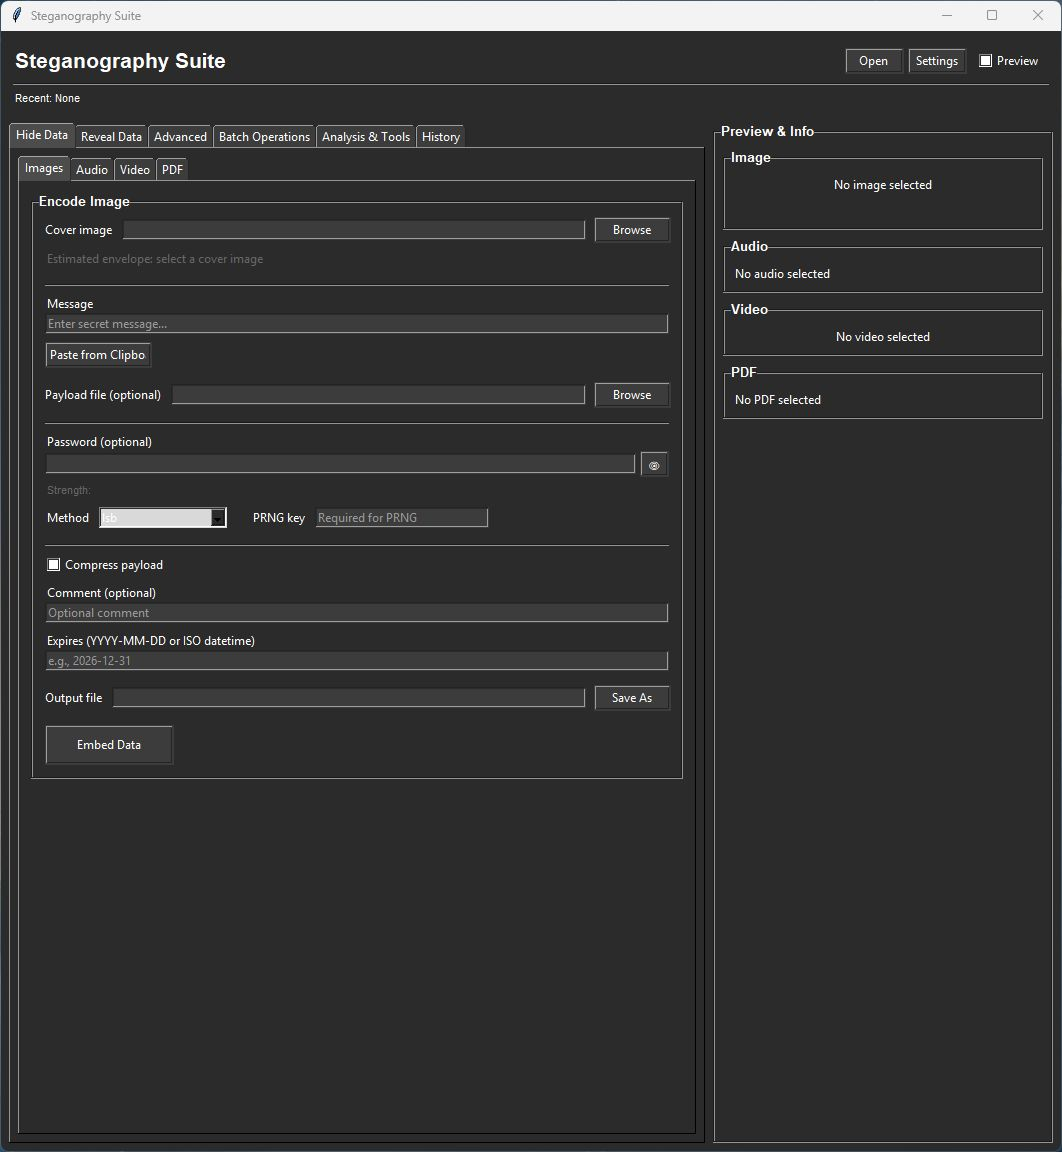
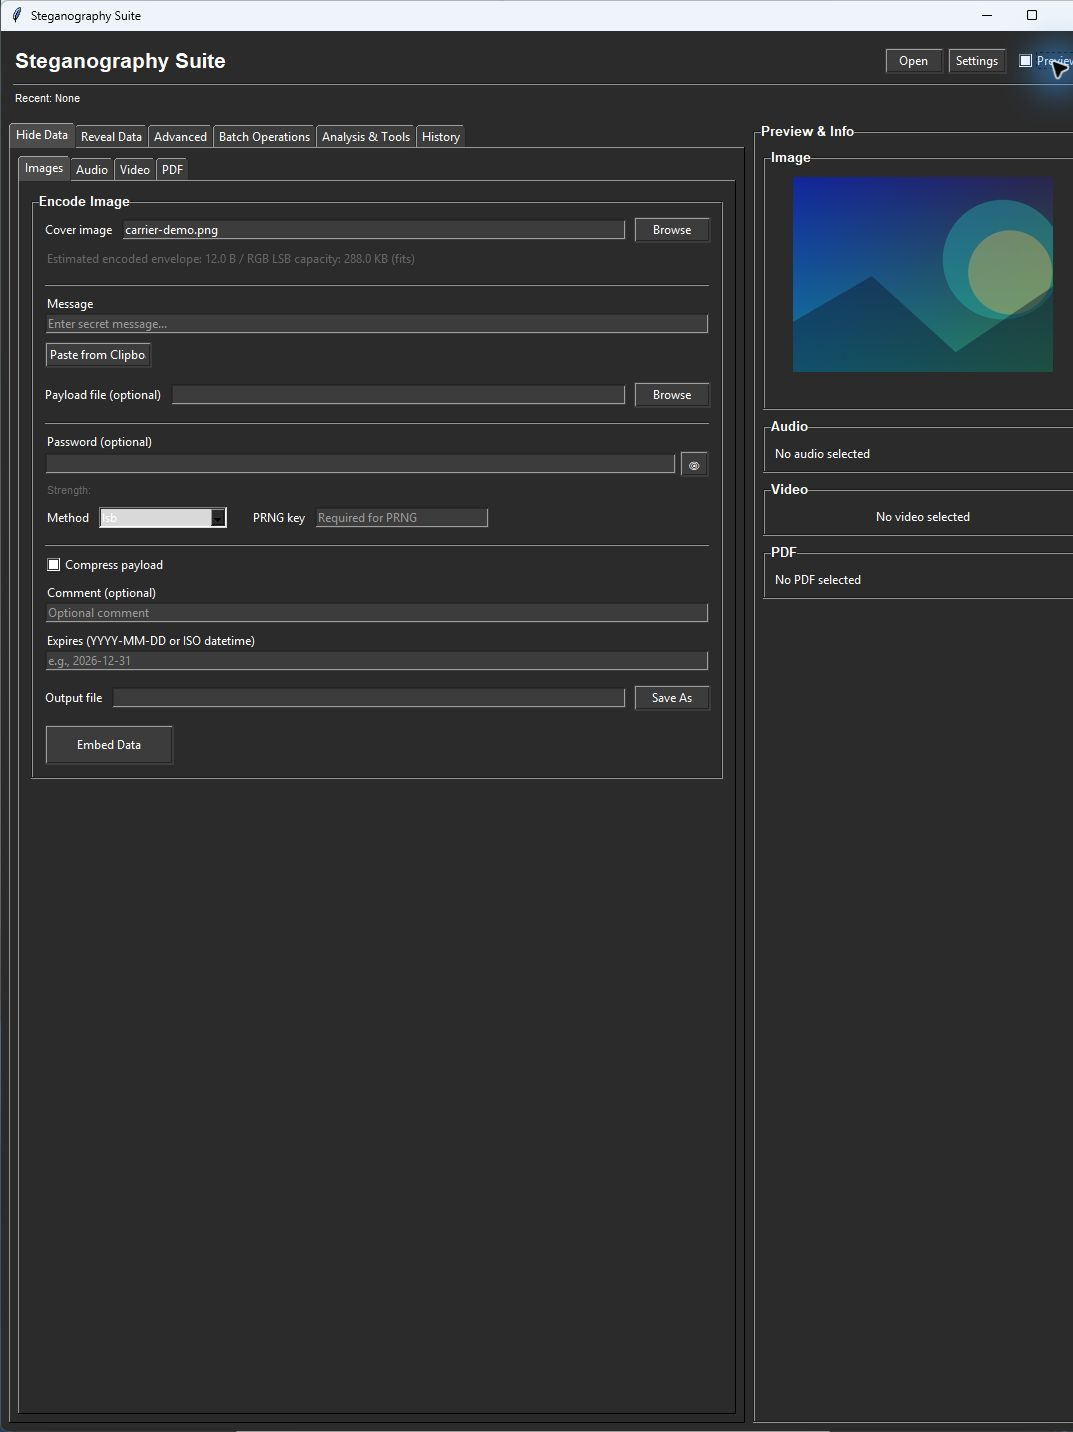
Fix cross-platform CI regressions and refresh screenshot

Changed region(s): [[0.0, 0.0, 1.0, 1.0], [0.0311, 0.9688, 0.7147, 1.0], [0.5593, 0.5938, 0.6215, 0.625]]

diff --git a/tests/test_gui.py b/tests/test_gui.py
@@ -628,11 +628,12 @@ def test_tcl_drop_normalization_and_callback_preserve_complex_paths(tk_root):
         r"C:\Users\Ada\Pictures\cover with braces {draft} ü.png",
         "/tmp/payload with spaces {notes} 雪.bin",
     ]
-    tcl_list = tk_root.tk.call("list", *paths)
-    event_data = str(tk_root.tk.call("format", "%s", tcl_list))
+    event_data = tk_root.tk.call("list", *paths)
+    string_event_data = " ".join(f"{{{path}}}" for path in paths)
     variable = tk.StringVar(master=tk_root)
 
     assert normalize_dnd_files(event_data, tk_root) == paths
+    assert normalize_dnd_files(string_event_data, tk_root) == paths
     assert handle_dnd_drop(event_data, tk_root, variable) == paths
     assert variable.get() == paths[0]
 

diff --git a/gui/main.py b/gui/main.py
@@ -947,10 +947,14 @@ def run_batch_commands(
     return error
 
 
-def normalize_dnd_files(data: str, widget: Any) -> list[str]:
-    """Parse Tk's Tcl-list representation of dropped file paths."""
+def normalize_dnd_files(
+    data: str | tuple[str, ...] | list[str], widget: Any
+) -> list[str]:
+    """Parse dropped paths from Tk's Tcl string or converted list result."""
     if not data:
         return []
+    if isinstance(data, (tuple, list)):
+        return [str(path) for path in data]
     return list(widget.tk.splitlist(data))
 
 

diff --git a/tests/test_audio.py b/tests/test_audio.py
@@ -74,11 +74,13 @@ def _make_audio(path, extension: str) -> None:
         ".mov": "aac",
         ".wav": "pcm_s16le",
         ".flac": "flac",
-        ".ogg": "libvorbis",
+        # Keep this fixture independent of optional Vorbis encoder support.
+        ".ogg": "flac",
         ".opus": "libopus",
         ".aac": "aac",
     }
     output_format = {
+        ".ogg": "ogg",
         ".m4b": "ipod",
         ".m4p": "ipod",
         ".m4v": "mp4",
